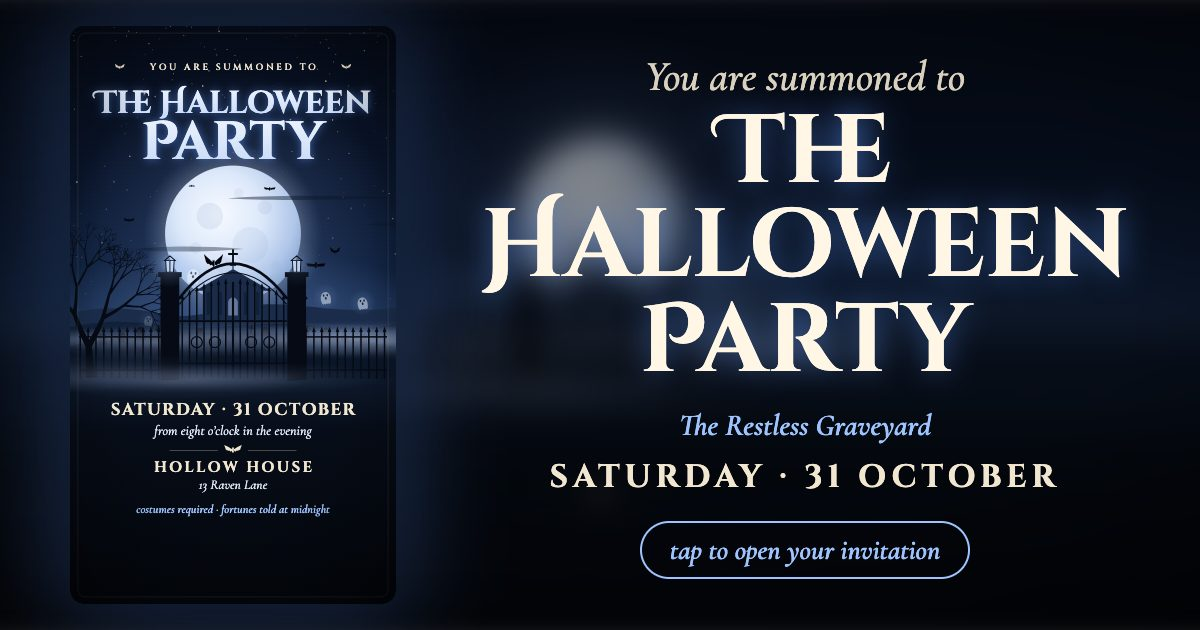
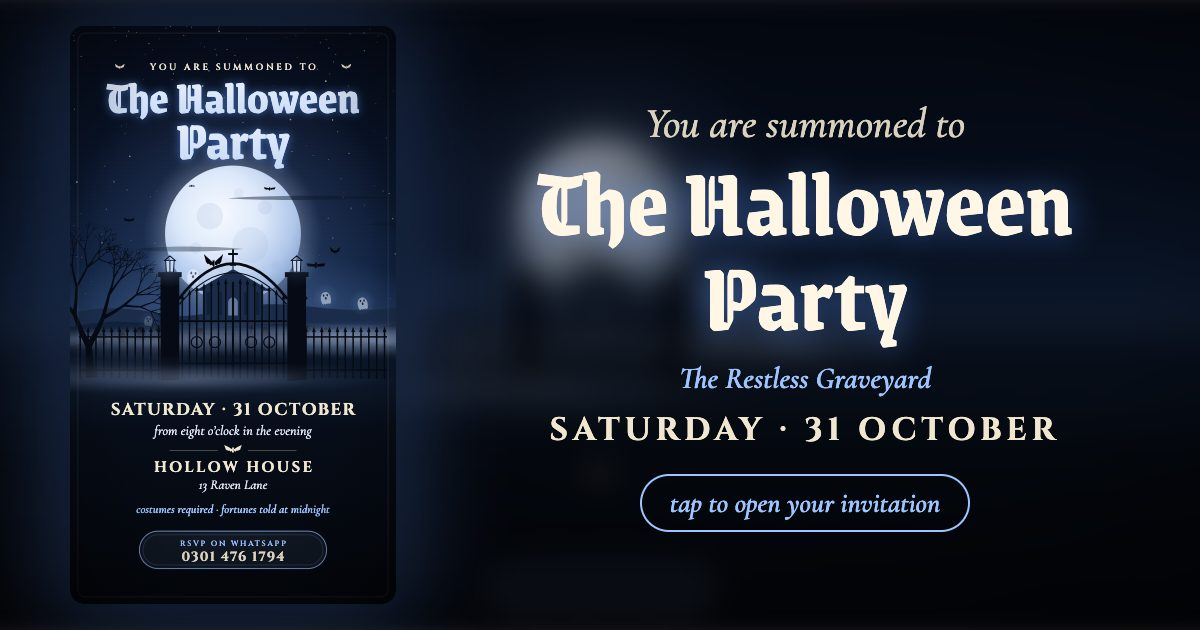
Restore own version (theme title fonts, Cinzel/Cormorant details) and remove the RSVP box from every card
Supersedes 69d3c29 and 10095d3 at the user's request.

diff --git a/art.js b/art.js
@@ -28,7 +28,6 @@
   const THEMES = {
     manor: {
       font: ['Grenze Gotisch', 700],
-      detail: ['Grenze Gotisch', 600, false, 0.3], body: ['Grenze', 400, true],
       name: 'The Haunted Manor',
       sky: ['#0A0717', '#1A1030', '#2E1846', '#4A2350', '#5E2C4C'],
       moon: { x: 540, y: 700, r: 235, c: ['#FFF4D6', '#F8DC9C', '#EDB06A', '#D98A4C'], crater: '#C9824A', glow: ['#F6C47E', '#E8834A'] },
@@ -39,7 +38,6 @@
     },
     witch: {
       font: ['Mystery Quest', 400],
-      detail: ['Mystery Quest', 400, true, 0.5], body: ['Mystery Quest', 400, false],
       name: 'The Witching Hour',
       sky: ['#030C0D', '#08201F', '#0F3432', '#1D4A43', '#2B5A49'],
       moon: { x: 540, y: 690, r: 250, c: ['#F6FFEA', '#DDF2C4', '#AEDB9C', '#7DB47E'], crater: '#86B88A', glow: ['#C8F0B0', '#5FBF6A'] },
@@ -50,7 +48,6 @@
     },
     patch: {
       font: ['Creepster', 400],
-      detail: ['Creepster', 400, true, 0.5], body: ['Henny Penny', 400, false],
       name: 'The Pumpkin Patch',
       sky: ['#100508', '#2A0B13', '#521519', '#8E2F1D', '#C45B26'],
       moon: { x: 540, y: 800, r: 300, c: ['#FFF0C8', '#FFCF7A', '#F59D42', '#DA6A2A'], crater: '#D07A36', glow: ['#FFC070', '#FF6A2A'] },
@@ -61,7 +58,6 @@
     },
     grave: {
       font: ['Cinzel Decorative', 700],
-      detail: ['Cinzel Decorative', 700, true, 0.7], body: ['Cinzel Decorative', 400, false],
       name: 'The Restless Graveyard',
       sky: ['#050A16', '#0B1830', '#13284A', '#1E3A60', '#2A4A70'],
       moon: { x: 540, y: 690, r: 225, c: ['#F6FAFF', '#DCE8FA', '#AFC6E8', '#839FCB'], crater: '#90A8CE', glow: ['#D2E2FF', '#6F8FD0'] },
@@ -72,7 +68,6 @@
     },
     vamp: {
       font: ['UnifrakturMaguntia', 400],
-      detail: ['UnifrakturMaguntia', 400, false, 0.2], body: ['IM Fell English', 400, true],
       name: 'The Vampire\u2019s Castle',
       sky: ['#0A0204', '#1E0408', '#3A0710', '#5A0E16', '#6E1219'],
       moon: { x: 360, y: 640, r: 195, c: ['#FFE0D4', '#F7A08A', '#D24A3C', '#8E1E1C'], crater: '#A8322A', glow: ['#FF8A70', '#C21E1E'] },
@@ -83,7 +78,6 @@
     },
     forest: {
       font: ['Uncial Antiqua', 400],
-      detail: ['Uncial Antiqua', 400, true, 0.4], body: ['Uncial Antiqua', 400, false],
       name: 'The Whispering Woods',
       sky: ['#02080C', '#061820', '#0B2A33', '#123A40', '#1A4A48'],
       moon: { x: 540, y: 640, r: 190, c: ['#F5FFF8', '#D2F0E0', '#9ED2BC', '#6AA894'], crater: '#7EB8A2', glow: ['#BFF5DA', '#4FA88A'] },
@@ -94,7 +88,6 @@
     },
     ship: {
       font: ['Pirata One', 400],
-      detail: ['Pirata One', 400, false, 0.4], body: ['Pirata One', 400, false],
       name: 'The Ghost Ship',
       sky: ['#02060E', '#06122A', '#0C2042', '#163058', '#1F3C66'],
       moon: { x: 700, y: 640, r: 180, c: ['#FFFDF0', '#F2EFD6', '#CFCBAA', '#A8A27E'], crater: '#B5AF8A', glow: ['#F0EFD0', '#8A9AC0'] },
@@ -105,7 +98,6 @@
     },
     carnival: {
       font: ['Sancreek', 400],
-      detail: ['Sancreek', 400, true, 0.5], body: ['Rye', 400, false],
       name: 'The Haunted Carnival',
       sky: ['#0A0414', '#1C0A2E', '#33124A', '#4E1A5C', '#64205E'],
       moon: { x: 720, y: 600, r: 190, c: ['#FFF2FA', '#F6D2EA', '#D9A0C8', '#B070A0'], crater: '#C080B0', glow: ['#FFC8EC', '#C04FA0'] },
@@ -1080,14 +1072,6 @@
 
     /* ---------- text ---------- */
     const entries = [], fit = [];
-    // the card's own typefaces for the smaller lines
-    const DETAIL = `'${T.detail[0]}', serif`, BODY = `'${T.body[0]}', serif`;
-    const caps = (txt, sentence) => T.detail[2] ? txt.toUpperCase()
-      : sentence ? txt.charAt(0).toUpperCase() + txt.slice(1).toLowerCase()
-      : txt.toLowerCase().replace(/(^|[\s·,-])(\p{L})/gu, (m, a, b) => a + b.toUpperCase());
-    const dls = n => Math.round(n * T.detail[3]);
-    const dl = (txt, y, size, ls, o = {}) => line(caps(txt, o.sentence), y, DETAIL, size, Object.assign({ weight: T.detail[1], ls: dls(ls) }, o));
-    const bl = (txt, y, size, o = {}) => line(txt, y, BODY, size, Object.assign({ weight: T.body[1], italic: T.body[2] }, o));
     function line(txt, y, family, size, o = {}) {
       const t = el('text', {
         x: CX, y, 'font-family': family, 'font-size': size, 'text-anchor': 'middle', fill: o.fill || CREAM,
@@ -1114,7 +1098,7 @@
 
     if (OPT.text) {
       const eg = el('g', {}, topText);
-      dl(P.eyebrow, 150, 32, 9, { parent: eg, max: 640, sentence: true });
+      line(P.eyebrow, 150, CINZEL, 30, { weight: 600, ls: 9, parent: eg, max: 640 });
       for (const sx of [-1, 1]) el('path', { d: batPath(0.6), fill: CREAM, transform: `translate(${CX + sx * 375},140) scale(0.36)` }, eg);
       reveal(eg, 1.9);
 
@@ -1129,11 +1113,11 @@
       reveal(tg, 2.1, 0.9, 30);
 
       const dg = el('g', {}, bottomText);
-      reveal(dl(P.date, 1290, 62, 5, { parent: dg, max: 880 }), 2.4);
-      reveal(bl(P.time, 1356, 42, { fill: T.soft, parent: dg, max: 860 }), 2.5);
-      reveal(dl(P.venue, 1480, 56, 8, { parent: dg, max: 860 }), 2.75);
-      reveal(bl(P.address, 1536, 40, { fill: T.soft, parent: dg, max: 860 }), 2.85);
-      reveal(bl(P.note, 1616, 38, { fill: T.accent, parent: dg, max: 900 }), 2.95);
+      reveal(line(P.date, 1290, CINZEL, 56, { weight: 700, ls: 5, parent: dg, max: 860 }), 2.4);
+      reveal(line(P.time, 1356, CORM, 46, { italic: true, weight: 500, fill: T.soft, parent: dg, max: 860 }), 2.5);
+      reveal(line(P.venue, 1480, CINZEL, 50, { weight: 700, ls: 8, parent: dg, max: 860 }), 2.75);
+      reveal(line(P.address, 1536, CORM, 44, { italic: true, weight: 500, fill: T.soft, parent: dg, max: 860 }), 2.85);
+      reveal(line(P.note, 1616, CORM, 40, { italic: true, weight: 600, fill: T.accent, parent: dg, max: 880 }), 2.95);
       if (OPT.rsvp) {
         reveal(line(P.rsvpLabel, 1726, CINZEL, 25, { weight: 600, ls: 6, fill: T.accent, parent: dg, max: 540 }), 3.1);
         reveal(line(P.rsvpNumber, 1776, CINZEL, 44, { weight: 700, ls: 4, parent: dg, max: 560 }), 3.15);
@@ -1214,8 +1198,6 @@
           document.fonts.load("700 50px 'Cinzel'"), document.fonts.load("600 50px 'Cinzel'"),
           document.fonts.load("italic 500 50px 'Cormorant Garamond'"), document.fonts.load("italic 600 50px 'Cormorant Garamond'"),
           document.fonts.load(`${T.font[1]} 50px '${T.font[0]}'`),
-          document.fonts.load(`${T.detail[1]} 50px '${T.detail[0]}'`),
-          document.fonts.load(`${T.body[2] ? 'italic ' : ''}${T.body[1]} 50px '${T.body[0]}'`),
         ]).catch(() => {});
         await document.fonts.ready;
       }
@@ -1250,7 +1232,7 @@
       // the thin card frame only belongs on the plain 9:16 card, never when filling a screen
       border.setAttribute('display', frame && !(ex > 1 || eyT > 1 || ey > 1) ? 'inline' : 'none');
       // on taller screens the title rises into the extra sky and the details settle into the extra ground
-      const lift = Math.max(0, eyT) * 0.7, drop = Math.max(0, ey) * (OPT.rsvp ? 0.55 : 0.75) + (OPT.rsvp ? 0 : 60);
+      const lift = Math.max(0, eyT) * 0.7, drop = Math.max(0, ey) * (OPT.rsvp ? 0.55 : 0.75) + (OPT.rsvp ? 0 : 90);
       topText.setAttribute('transform', lift > 0.5 ? `translate(0,${f2(-lift)})` : '');
       bottomText.setAttribute('transform', drop > 0.5 ? `translate(0,${f2(drop)})` : '');
     }
@@ -1267,6 +1249,6 @@
     create, batPath, INTRO, THEMES: Object.keys(THEMES),
     themeNames: Object.fromEntries(Object.entries(THEMES).map(([k, v]) => [k, v.name])),
     // per-theme look for the page around a card: title font + colours
-    themeStyle: Object.fromEntries(Object.entries(THEMES).map(([k, v]) => [k, { font: v.font, detail: v.detail, body: v.body, accent: v.accent, glow: v.titleGlow, title: v.title, soft: v.soft }])),
+    themeStyle: Object.fromEntries(Object.entries(THEMES).map(([k, v]) => [k, { font: v.font, accent: v.accent, glow: v.titleGlow, title: v.title }])),
   };
 })(window);

diff --git a/index.html b/index.html
@@ -27,7 +27,7 @@
 <link rel="icon" href="favicon.svg" type="image/svg+xml">
 <link rel="preconnect" href="https://fonts.googleapis.com">
 <link rel="preconnect" href="https://fonts.gstatic.com" crossorigin>
-<link href="https://fonts.googleapis.com/css2?family=Cinzel:wght@600;700&family=Cormorant+Garamond:ital,wght@1,500;1,600&family=Grenze+Gotisch:wght@700&family=Mystery+Quest&family=Creepster&family=Cinzel+Decorative:wght@400;700&family=Grenze:ital,wght@0,400;1,400&family=IM+Fell+English:ital@1&family=Henny+Penny&family=Rye&family=UnifrakturMaguntia&family=Uncial+Antiqua&family=Pirata+One&family=Sancreek&display=swap" rel="stylesheet">
+<link href="https://fonts.googleapis.com/css2?family=Cinzel:wght@600;700&family=Cormorant+Garamond:ital,wght@1,500;1,600&family=Grenze+Gotisch:wght@700&family=Mystery+Quest&family=Creepster&family=Cinzel+Decorative:wght@700&family=UnifrakturMaguntia&family=Uncial+Antiqua&family=Pirata+One&family=Sancreek&display=swap" rel="stylesheet">
 <style>
   :root { --bg: #0A0717; --cream: #F1E6D0; --soft: #E9DBC4; --ember: #E8834A; --line: rgba(241, 230, 208, .22); }
   * { box-sizing: border-box; }
@@ -83,9 +83,8 @@
   .divider svg { width: 34px; height: 20px; fill: var(--cream); opacity: .9; }
 
   .details p { margin: 0 0 4px; }
-  .details .soft, .details .note, .eyebrow, .cd-note { font-family: var(--body-font, 'Cormorant Garamond'), serif; font-style: var(--body-style, italic); }
-  .details .date { font: var(--detail-weight, 700) 22px var(--detail-font, 'Cinzel'), serif; letter-spacing: var(--detail-ls, 3px); text-transform: var(--detail-case, none); }
-  .details .venue { font: var(--detail-weight, 700) 20px var(--detail-font, 'Cinzel'), serif; letter-spacing: var(--detail-ls, 4px); margin-top: 16px; text-transform: var(--detail-case, none); }
+  .details .date { font: 700 22px 'Cinzel', serif; letter-spacing: 3px; }
+  .details .venue { font: 700 18px 'Cinzel', serif; letter-spacing: 4px; margin-top: 16px; }
   .details .soft { color: var(--soft); }
   .details .note { color: var(--ember); margin-top: 14px; font-weight: 600; }
 
@@ -326,7 +325,7 @@
     <p class="deck-name" id="deck-name"></p>
     <div class="hero-bar">
       <button class="link-btn" id="replay" type="button">↻ replay the bats</button>
-      <a class="link-btn" href="#details">details &amp; reply ↓</a>
+      <a class="link-btn" href="#details">details &amp; RSVP ↓</a>
     </div>
   </div>
 
@@ -379,7 +378,7 @@
   <button class="fab" id="fab" type="button" aria-expanded="false" aria-controls="fab-menu">
     <svg class="m" viewBox="0 0 24 24" fill="none" stroke="currentColor" stroke-width="2" stroke-linecap="round" stroke-linejoin="round"><path d="M3 7l9 6 9-6"/><rect x="3" y="5" width="18" height="14" rx="2"/></svg>
     <svg class="x" viewBox="0 0 24 24" fill="none" stroke="currentColor" stroke-width="2.2" stroke-linecap="round"><path d="M6 6l12 12M18 6L6 18"/></svg>
-    Reply
+    RSVP
   </button>
 </div>
 <div class="toast" id="toast">Link copied</div>
@@ -507,12 +506,6 @@ function applyThemeLook(theme) {
   r.setProperty('--fab-bg', `linear-gradient(180deg, ${st.title[1]}, ${st.accent})`);
   r.setProperty('--fab-glow', hexA(st.accent, 0.55));
   r.setProperty('--fab-accent', st.accent);
-  r.setProperty('--detail-font', `'${st.detail[0]}'`);
-  r.setProperty('--detail-weight', st.detail[1]);
-  r.setProperty('--detail-ls', `${Math.round(4 * st.detail[3])}px`);
-  r.setProperty('--detail-case', st.detail[2] ? 'uppercase' : 'capitalize');
-  r.setProperty('--body-font', `'${st.body[0]}'`);
-  r.setProperty('--body-style', st.body[2] ? 'italic' : 'normal');
 }
 function setActive(i) {
   i = Math.max(0, Math.min(cards.length - 1, i));
@@ -522,8 +515,6 @@ function setActive(i) {
   document.querySelectorAll('.dot').forEach((d, k) => d.setAttribute('aria-current', k === i ? 'true' : 'false'));
   $('deck-name').textContent = `${HauntCard.themeNames[cards[i].theme]} · ${i + 1} of ${cards.length}`;
   $('prev').disabled = i === 0; $('next').disabled = i === cards.length - 1;
-  if (typeof updateReplies === 'function' && window.__repliesReady) updateReplies();
-window.__repliesReady = true;
   if (viewing) showInViewer();
 }
 deck.addEventListener('scroll', () => setActive(Math.round(deck.scrollLeft / deck.clientWidth)), { passive: true });
@@ -746,10 +737,11 @@ $('fab-cal').addEventListener('click', () => { setFab(false); addToCalendar(); }
 for (const id of ['fab-yes', 'fab-no', 'fab-map']) $(id).addEventListener('click', () => setTimeout(() => setFab(false), 300));
 
 if (INVITE >= 0) setTimeout(() => { // after the rest of the page script has run
-  updateReplies(); $('fab-map').href = $('btn-map').href;
+  $('fab-yes').href = $('btn-yes').href; $('fab-no').href = $('btn-no').href; $('fab-map').href = $('btn-map').href;
   setTimeout(() => $('fab-wrap').classList.add('ready'), (HauntCard.INTRO + 0.4) * 1000); // appears once the intro has played
   document.body.classList.remove('locked', 'splash');
   entered = true;
+  $('act-rsvp').href = wa(`Hello! 🦇 I have received my summons and I WILL attend ${PARTY.title} on ${PARTY.dateText}. Name: `);
   openViewer();
   cards[INVITE].card.ready.then(replay);
 }, 0);
@@ -770,24 +762,17 @@ document.querySelectorAll('.bat-icon').forEach(p => p.setAttribute('d', HauntCar
 
 /* ---------- text ---------- */
 $('title').textContent = PARTY.title;
-$('d-date').textContent = PARTY.dateText.toLowerCase();
+$('d-date').textContent = PARTY.dateText.toUpperCase();
 $('d-time').textContent = PARTY.timeText;
-$('d-venue').textContent = PARTY.venue.toLowerCase();
+$('d-venue').textContent = PARTY.venue.toUpperCase();
 $('d-address').textContent = PARTY.address;
 $('d-note').textContent = PARTY.note;
 $('rsvp-by').textContent = PARTY.rsvpBy ? `${PARTY.rsvpBy}. Your reply goes to ${PARTY.hostName} on WhatsApp${PARTY.phoneShown ? ' (' + PARTY.phoneShown + ')' : ''}.` : '';
 
 /* ---------- RSVP via WhatsApp ---------- */
 const wa = text => `https://wa.me/${PARTY.whatsapp.replace(/\D/g, '')}?text=${encodeURIComponent(text)}`; // empty number -> guest picks a chat
-const replyYes = link => wa(`Hello! 🦇 I have received my summons and I WILL attend ${PARTY.title} on ${PARTY.dateText}.\nName: \n\nMy invitation: ${link}`);
-const replyNo = link => wa(`Hello, sadly I cannot make it to ${PARTY.title} on ${PARTY.dateText}. Have a wonderfully spooky night! 🎃\n\nMy invitation: ${link}`);
-function updateReplies() {
-  const link = cardLink(cards[active]);
-  $('btn-yes').href = replyYes(link); $('btn-no').href = replyNo(link);
-  $('fab-yes').href = replyYes(link); $('fab-no').href = replyNo(link);
-  $('act-rsvp').href = replyYes(link);
-}
-updateReplies();
+$('btn-yes').href = wa(`Hello! 🦇 I have received my summons and I WILL attend ${PARTY.title} on ${PARTY.dateText}. Name: `);
+$('btn-no').href = wa(`Hello, sadly I cannot make it to ${PARTY.title} on ${PARTY.dateText}. Have a wonderfully spooky night! 🎃`);
 
 /* ---------- directions ---------- */
 $('btn-map').href = `https://www.google.com/maps/dir/?api=1&destination=${encodeURIComponent(PARTY.mapsQuery)}`;
